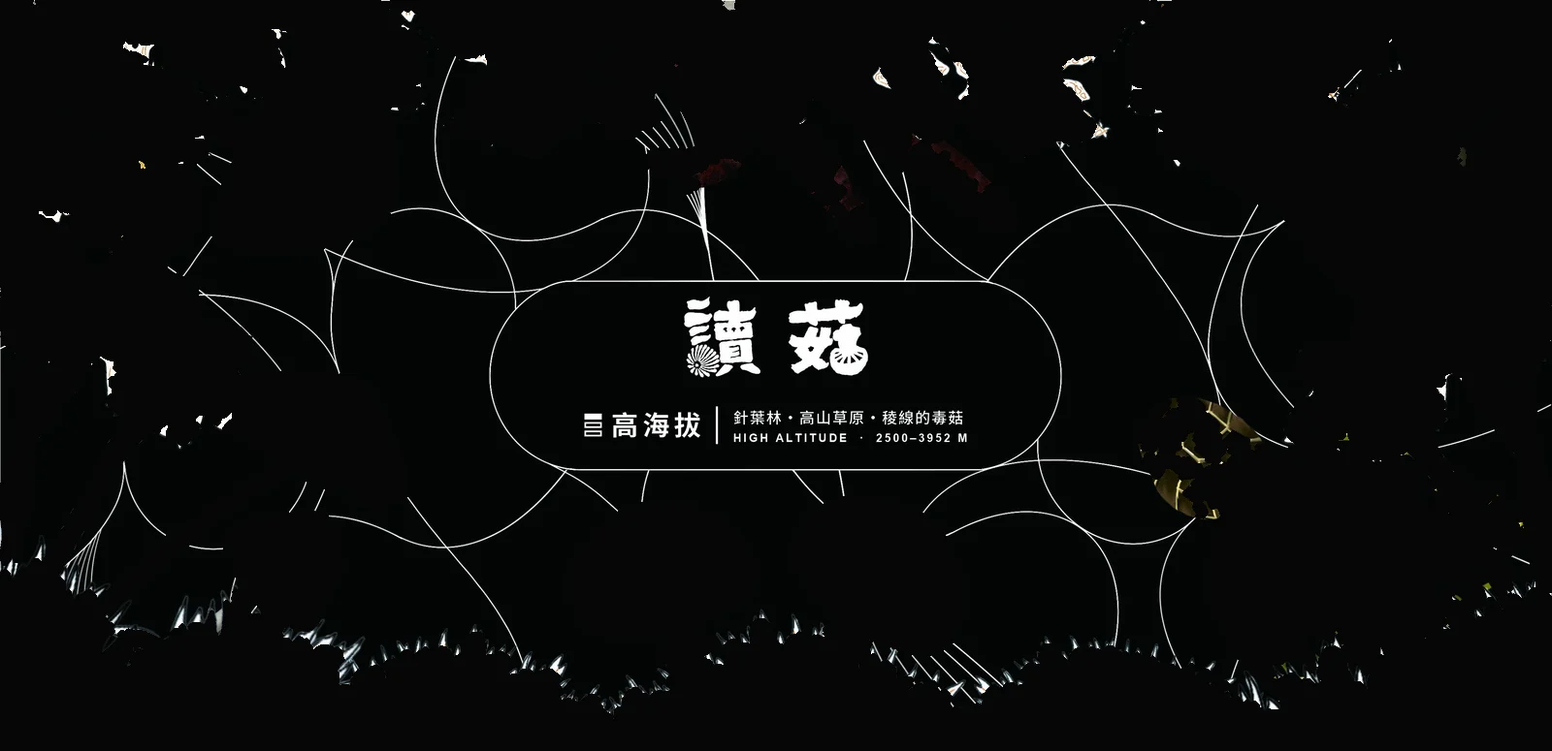
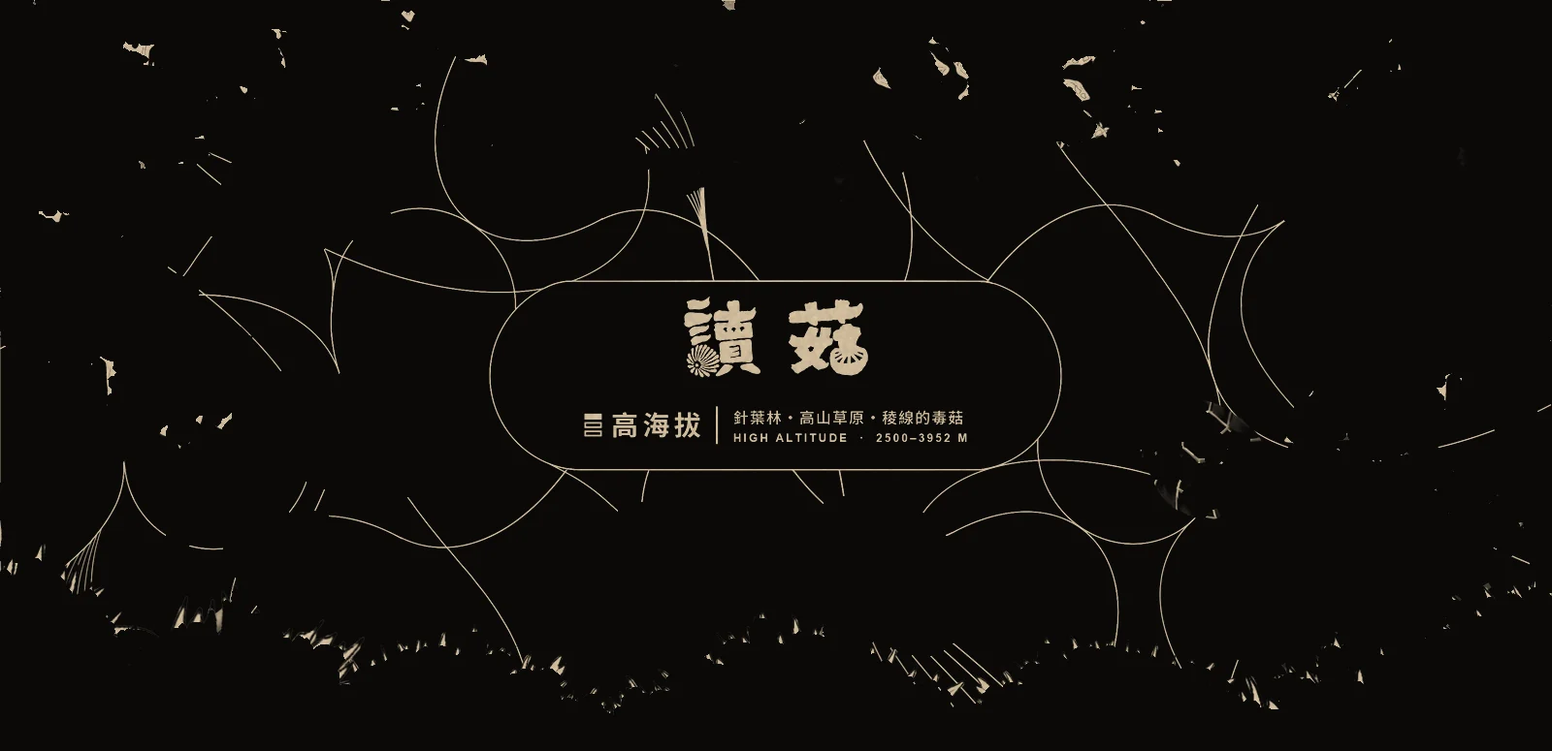
讀菇：三冊改為經摺裝往上拉（上說明頁／下同種菇山行插畫）、正面全部拉開＝捲軸；封面改黑卡紙鐳雕色

diff --git a/dugu-home/js/flipbook.js b/dugu-home/js/flipbook.js
@@ -1,13 +1,19 @@
-/* 讀菇 三冊折頁書模擬（2026-11-26）
-   實體：封面是三層黑卡紙（外框鐳雕樹林草地、中間挖空 → 彩繪毒菇 → 底層紋路＋書名鐳雕）；
-        書是上緣裝訂、「往上拉」的折頁書，一頁翻上去，它的背面和下一頁上下對照。
-   網頁：#shelf 的封面換成三層疊出來的封面（滑鼠視差），點書打開全螢幕翻頁器。
+/* 讀菇 三冊經摺裝（拉頁書）模擬（2026-11-26）
+   實體：封面三層黑卡紙——①外框黑卡、鐳雕樹林草地線條、中間挖空 ②彩繪毒菇 ③底層黑卡、鐳雕紋路＋書名。
+        書是經摺裝的拉頁，往上翻：每翻一折同時看到正反兩面——
+          上面＝翻上去那一折的背面：毒菇說明頁（書本排版）
+          下面＝下一折的正面：同一種菇在《毒菇山行》裡的樹與菇插畫
+        正面整條拉開＝《毒菇山行》捲軸海報（這一冊的海拔段）。
+   網頁：#shelf 封面換成三層疊（滑鼠視差）；點書開全螢幕翻閱器；「正面全部拉開」看整條捲軸。
    依賴 common.js 的 window.UI、home-data.js 的 window.DUGU；接在 home.js 之後載入 */
 (function () {
-  const { $, $$, openLB } = window.UI, D = window.DUGU;
+  const { $, $$ } = window.UI, D = window.DUGU;
   const reduce = matchMedia('(prefers-reduced-motion: reduce)').matches;
   const clamp = (v, a, b) => Math.min(b, Math.max(a, v));
-  const RATIO = 1600 / 775;                      // 封面比例（書頁同大小）
+  const RATIO = 1600 / 775;                      // 封面比例（每一折同大小）
+  const T = D.TYPES;
+  const ARTN = Object.fromEntries(D.ART.map(a => [a.n, a.src]));   // 山行插畫：第 n 層＝書頁 n
+  const SKY = { low: ['#d9d3bd', '#b9b48f'], mid: ['#c9d2c3', '#9fae98'], high: ['#cdd5da', '#a7b3ba'] };
 
   /* ---------- 1. 三層封面 ---------- */
   function cover3(b) {
@@ -15,14 +21,11 @@
       <img class="cv3-l cv3-base" src="img/cover/base-${b.key}.webp" alt="" draggable="false">
       <img class="cv3-l cv3-mush" src="img/cover/mush.webp" alt="" draggable="false">
       <img class="cv3-l cv3-frame" src="img/cover/frame.webp" alt="《${b.title}》封面：${b.sub} ${b.place}" draggable="false">
-      <span class="cv3-tag t3"><b>③</b>底層・黑卡鐳雕紋路＋書名</span>
-      <span class="cv3-tag t2"><b>②</b>中層・彩繪毒菇</span>
-      <span class="cv3-tag t1"><b>①</b>外框・黑卡鐳雕樹林，中間挖空</span>
     </div>`;
   }
   // 滑鼠在封面上：三層各移不同距離，看得出紙張前後
   function parallax(el) {
-    if (reduce || !matchMedia('(pointer: fine)').matches) return;
+    if (!el || reduce || !matchMedia('(pointer: fine)').matches) return;
     el.addEventListener('pointermove', e => { const r = el.getBoundingClientRect();
       el.style.setProperty('--px', ((e.clientX - r.left) / r.width - .5).toFixed(3));
       el.style.setProperty('--py', ((e.clientY - r.top) / r.height - .5).toFixed(3)); });
@@ -32,101 +35,109 @@
     const b = D.BOOKS.find(x => x.key === btn.dataset.book), c = $('.book-cover', btn);
     const tag = $('.bc-band', c);
     c.innerHTML = cover3(b); if (tag) c.append(tag);
-    c.insertAdjacentHTML('beforeend', '<span class="bc-open">往上翻開 ↑</span>');
+    c.insertAdjacentHTML('beforeend', '<span class="bc-open">往上拉開 ↑</span>');
     parallax($('.cv3', c));
   });
 
-  /* ---------- 2. 書頁 ---------- */
-  const T = D.TYPES;
+  /* ---------- 2. 每一折的兩面 ---------- */
   const plain = s => s.replace(/的毒菇$/, '');
-  function pageList(b) {
-    const list = D.M.filter(m => m.band === b.key);
-    const real = list.filter(m => m.plate).sort((a, c) => a.page - c.page);
-    const rest = list.filter(m => !m.plate).sort((a, c) => a.stage - c.stage);
-    return [...real, ...rest];
-  }
-  function pageFace(m, b, n) {
-    if (m.plate) return `<div class="fp plate"><img src="${m.plate}" alt="${m.name} 書頁 P.${m.page}" draggable="false">
-      <button class="fp-zoom" data-lb="${m.plate}" data-cap="《${b.title}》${m.name} ・ P.${m.page}" aria-label="放大這一頁">⤢</button></div>`;
+  const pageList = b => D.M.filter(m => m.band === b.key).sort((a, c) => a.stage - c.stage);   // 由山下往上
+  const pno = m => String(m.stage).padStart(2, '0');
+  // 背面：毒菇說明頁
+  function descFace(m, b) {
+    if (m.plate) return `<div class="fp plate"><img src="${m.plate}" alt="${m.name} 說明頁 P.${m.page}" draggable="false">
+      <button class="fp-zoom" data-lb="${m.plate}" data-cap="《${b.title}》${m.name} ・ 說明頁 P.${m.page}" aria-label="放大說明頁">⤢</button></div>`;
     const t = T[m.type];
     return `<div class="fp gen">
       <div class="gp-l"><h4>${m.name}</h4><i>${m.sci}</i><b style="--c:${t.color}">${t.name}</b>
         <h5>外觀與生長</h5><p>${m.text}</p><h5>分布</h5><p>${b.sub} ${b.range}・${plain(b.place)}</p></div>
       <div class="gp-m"><span class="gp-ring"></span><img src="${m.img}" alt="${m.name}" draggable="false"></div>
-      <div class="gp-r"><header><span>讀菇山行 / The Poisonous Trail</span><em>No.${String(n).padStart(2, '0')}</em></header>
+      <div class="gp-r"><header><span>讀菇山行 / The Poisonous Trail</span><em>${pno(m)}</em></header>
         ${m.gill ? `<figure><img src="${m.gill}" alt="" draggable="false"><figcaption>菌褶</figcaption></figure>` : ''}
         <p class="gp-warn"><b>⚠ ${t.name}中毒</b>${t.text}</p>
         <button class="gp-more" data-mush="${m.id}">看說明卡</button>
-        <small>網頁示意・正式書頁排版中</small></div></div>`;
+        <small>網頁示意・正式說明頁排版中</small></div></div>`;
+  }
+  // 正面：《毒菇山行》插畫（同一種菇那一層）
+  function artFace(m) {
+    const src = ARTN[m.stage], cap = `<span class="af-cap"><em>山行 ${pno(m)}</em>${m.name}</span>`;
+    if (src) return `<div class="fp art"><img src="${src}" alt="《毒菇山行》第 ${m.stage} 層：${m.name}" draggable="false">${cap}
+      <button class="fp-zoom" data-lb="${src}" data-cap="《毒菇山行》第 ${m.stage} 層 ・ ${m.name}" aria-label="放大插畫">⤢</button></div>`;
+    return `<div class="fp art pending"><img class="af-mush" src="${m.img}" alt="${m.name}" draggable="false">${cap}<small class="af-note">這一層的山行插畫繪製中，先放菇的手繪圖</small></div>`;
   }
   const gauge = k => `<span class="fb-gauge">${['high', 'mid', 'low'].map(x => `<i class="${x === k ? 'on' : ''}"></i>`).join('')}</span>`;
-  function introFace(b, pages) {
+  // 最後一折的背面：這一冊收錄的菇
+  function tocFace(b, list) {
     return `<div class="fp ink fintro"><div class="in-l">${gauge(b.key)}<h3>${b.title}</h3><p class="in-en">${b.en}</p>
         <p class="in-sub">${b.sub}　${b.range}</p><p class="in-place">${b.place}</p></div>
-      <ol class="in-toc">${pages.map((m, i) => `<li><span>${m.plate ? 'P.' + m.page : 'No.' + String(i + 1).padStart(2, '0')}</span>${m.name}<em>${T[m.type].name}</em></li>`).join('')}</ol></div>`;
+      <ol class="in-toc">${list.map(m => `<li><span>${pno(m)}</span>${m.name}<em>${T[m.type].name}</em></li>`).join('')}</ol></div>`;
   }
-  const blankFace = () => `<div class="fp ink blank"><img src="../dugu-trail/img/logo-white.png" alt=""></div>`;
   function endFace(b) {
     const i = D.BOOKS.indexOf(b), nx = D.BOOKS[i + 1];
     return `<div class="fp ink end"><img src="../dugu-trail/img/logo-white.png" alt="讀菇">
-      <p>《${b.title}》讀完了。</p>
-      <div class="end-btns">${nx ? `<button class="fb-btn" data-next="${nx.key}">接著讀《${nx.title}》${nx.sub} ↑</button>` : `<button class="fb-btn" data-next="low">回到第一冊《尋野》</button>`}
-        <a class="fb-btn line" href="../dugu-trail/index.html">另外二十頁 → 捲軸海報《毒菇山行》</a></div>
-      <small>三冊上下接起來，就是從平地走到稜線的一整條山路。</small></div>`;
+      <p>《${b.title}》拉到底了。</p>
+      <div class="end-btns">${nx ? `<button class="fb-btn" data-next="${nx.key}">接著往上：《${nx.title}》${nx.sub} ↑</button>` : `<button class="fb-btn" data-next="low">回到山腳《尋野》</button>`}
+        <button class="fb-btn line" data-unfold>把正面全部拉開</button></div>
+      <small>三冊的正面接起來，就是從平地走到稜線的《毒菇山行》捲軸。</small></div>`;
   }
 
-  /* ---------- 3. 翻頁器 ---------- */
+  /* ---------- 3. 翻閱器 ---------- */
   const fb = document.createElement('div');
   fb.className = 'fb'; fb.hidden = true; fb.setAttribute('role', 'dialog'); fb.setAttribute('aria-label', '翻閱圖鑑');
   fb.innerHTML = `<div class="fb-top">
       <nav class="fb-books">${D.BOOKS.map(b => `<button data-book="${b.key}">${gauge(b.key)}<b>${b.title}</b><span>${b.sub}</span></button>`).join('')}</nav>
       <span class="fb-count" id="fbCount"></span>
+      <button class="fb-unf" data-unfold>正面全部拉開</button>
       <button class="fb-x" data-fbclose aria-label="關閉">✕</button></div>
     <div class="fb-stage" id="fbStage">
       <div class="fb-ghost" id="fbGhost"></div>
       <div class="fb-board" id="fbBoard"></div>
       <div class="fb-leaves" id="fbLeaves"></div>
       <div class="fb-hinge"></div>
+      <span class="fb-side up">說明頁<small>背面</small></span><span class="fb-side dn">毒菇山行<small>正面</small></span>
       <ol class="fb-legend" aria-label="封面三層結構">
-        <li style="--y:27%"><b>①</b><span>外框<small>黑卡紙鐳雕樹林與草地，中間挖空</small></span></li>
+        <li style="--y:27%"><b>①</b><span>外框<small>黑卡紙，鐳雕樹林草地線條，中間挖空</small></span></li>
         <li style="--y:51%"><b>②</b><span>中層<small>彩繪毒菇，從洞口露出來</small></span></li>
-        <li style="--y:75%"><b>③</b><span>底層<small>黑卡紙鐳雕紋路＋書名</small></span></li>
+        <li style="--y:75%"><b>③</b><span>底層<small>黑卡紙，鐳雕紋路＋書名</small></span></li>
       </ol>
     </div>
     <div class="fb-bot">
-      <button class="fb-nav" data-go="-1" aria-label="翻回上一頁">▼ 翻回</button>
+      <button class="fb-nav" data-go="-1" aria-label="摺回一折">▼ 摺回</button>
       <div class="fb-dots" id="fbDots"></div>
-      <button class="fb-nav up" data-go="1" aria-label="往上翻下一頁">往上翻 ▲</button>
+      <button class="fb-nav up" data-go="1" aria-label="往上拉開一折">往上拉 ▲</button>
     </div>
-    <p class="fb-tip">拖曳下半頁往上翻・點上半頁翻回・鍵盤 ↑↓ 也可以</p>`;
+    <p class="fb-tip">抓住下半部往上拉・點上半部摺回・鍵盤 ↑↓ 也可以</p>
+    <div class="fb-unfold" id="fbUnfold" hidden></div>`;
   document.body.append(fb);
-  const stage = $('#fbStage', fb), leavesEl = $('#fbLeaves', fb), board = $('#fbBoard', fb), ghost = $('#fbGhost', fb);
-  let book = null, leaves = [], idx = 0, bw = 0, bh = 0;
+  const stage = $('#fbStage', fb), leavesEl = $('#fbLeaves', fb), board = $('#fbBoard', fb), ghost = $('#fbGhost', fb), unf = $('#fbUnfold', fb);
+  let book = null, list = [], leaves = [], idx = 0, bh = 0;
 
   function layout() {
     const W = Math.min(innerWidth - 32, 1180), half = (innerHeight - 190) / 2;
-    bh = Math.max(120, Math.min(W / RATIO, half)); bw = bh * RATIO;
-    stage.style.setProperty('--bw', bw.toFixed(1) + 'px'); stage.style.setProperty('--bh', bh.toFixed(1) + 'px');
+    bh = Math.max(120, Math.min(W / RATIO, half));
+    stage.style.setProperty('--bw', (bh * RATIO).toFixed(1) + 'px'); stage.style.setProperty('--bh', bh.toFixed(1) + 'px');
   }
   function open(key, keepOpen) {
     book = D.BOOKS.find(b => b.key === key) || D.BOOKS[0];
-    const pages = pageList(book);
-    const faces = [{ html: cover3(book), cover: true }, { html: introFace(book, pages) },
-      ...pages.map((m, i) => ({ html: pageFace(m, book, i + 1) }))];
-    if (faces.length % 2) faces.push({ html: blankFace() });   // 湊成雙面
-    leavesEl.innerHTML = '';
-    leaves = [];
-    for (let i = 0; i < faces.length; i += 2) {
-      const lf = document.createElement('div'); lf.className = 'leaf';
-      lf.innerHTML = `<div class="face front">${faces[i].html}<i class="shade"></i></div><div class="face back">${faces[i + 1].html}<i class="shade"></i></div>`;
+    list = pageList(book);
+    fb.style.setProperty('--sky1', SKY[book.key][0]); fb.style.setProperty('--sky2', SKY[book.key][1]);
+    // 第 0 折：正面＝封面、背面＝第 1 種菇的說明頁；第 k 折：正面＝第 k 種的山行插畫、背面＝第 k+1 種的說明頁
+    const L = [{ front: cover3(book), back: descFace(list[0], book) },
+      ...list.map((m, k) => ({ front: artFace(m), back: list[k + 1] ? descFace(list[k + 1], book) : tocFace(book, list) }))];
+    leavesEl.innerHTML = ''; leaves = [];
+    L.forEach((f, i) => {
+      const lf = document.createElement('div'); lf.className = 'leaf' + (i ? '' : ' is-cover');
+      lf.innerHTML = `<div class="face front">${f.front}<i class="shade"></i></div><div class="face back">${f.back}<i class="shade"></i></div>`;
       leavesEl.append(lf); leaves.push({ el: lf, ang: 0 });
-    }
-    board.innerHTML = endFace(book);                     // 封底：全部翻上去後露出來
+    });
+    board.innerHTML = endFace(book);
     ghost.innerHTML = `<div class="gh">${gauge(book.key)}<h3>${book.title}</h3><p>${book.sub}　${book.range}</p><p class="gh-place">${book.place}</p>
-      <button class="fb-btn ghost-x" data-explode>看封面三層結構</button><p class="gh-tip">↓ 抓住封面往上拉，翻開這本書</p></div>`;
+      <button class="fb-btn ghost-x" data-explode>看封面三層結構</button>
+      <p class="gh-tip">↓ 抓住封面往上拉：上面是毒菇說明頁，下面是同一種菇的山行插畫</p></div>`;
     $$('.fb-books button', fb).forEach(x => x.classList.toggle('on', x.dataset.book === book.key));
     $('#fbDots', fb).innerHTML = leaves.map(() => '<i></i>').join('');
     parallax($('.cv3', leavesEl));
+    closeUnfold(true);
     idx = 0; layout(); render(true);
     if (!keepOpen) { fb.hidden = false; document.documentElement.style.overflow = 'hidden'; requestAnimationFrame(() => fb.classList.add('on')); }
   }
@@ -136,40 +147,39 @@
     L.ang = a; L.el.style.transform = `rotateX(${a.toFixed(2)}deg)`;
     L.el.style.setProperty('--a', (a / 180).toFixed(3));
   }
+  const zOf = i => (i < idx ? 10 + i : 500 - i);
   function render(instant) {
     leaves.forEach((L, i) => {
       L.el.classList.toggle('anim', !instant && !reduce);
       setAng(L, i < idx ? 180 : 0);
       if (!L.tm || instant) L.el.style.zIndex = zOf(i);
     });
-    fb.classList.toggle('closed', idx === 0);
-    fb.classList.remove('explode');
     const n = leaves.length;
-    $('#fbCount', fb).textContent = idx === 0 ? `《${book.title}》封面` : idx >= n ? '封底・讀完了' : `已翻 ${idx} / ${n} 張`;
+    fb.classList.toggle('closed', idx === 0); fb.classList.toggle('reading', idx > 0 && idx < n);
+    fb.classList.remove('explode');
+    const m = list[idx - 1];
+    $('#fbCount', fb).innerHTML = idx === 0 ? `《${book.title}》封面` : idx >= n ? '拉到底了' : `<b>${pno(m)}</b> ${m.name}　<span>上：說明頁｜下：山行插畫</span>`;
     $$('#fbDots i', fb).forEach((d, i) => d.classList.toggle('on', i < idx));
     $('[data-go="-1"]', fb).disabled = idx === 0; $('[data-go="1"]', fb).disabled = idx >= n;
   }
-  const zOf = i => (i < idx ? 10 + i : 500 - i);
-  // 正在翻的那張浮在最上面，翻完再回到它該在的層
+  // 正在翻的那一折浮在最上面，翻完再回到它該在的層
   function lift(L) { const i = leaves.indexOf(L); L.el.style.zIndex = 900; clearTimeout(L.tm); L.tm = setTimeout(() => { L.el.style.zIndex = zOf(i); L.tm = 0; }, reduce ? 0 : 950); }
   function go(d) { const n = clamp(idx + d, 0, leaves.length); if (n === idx) return; const L = leaves[d > 0 ? idx : idx - 1]; idx = n; render(); lift(L); }
 
-  /* 拖曳：下半頁往上拉＝翻頁，上半頁往下拉＝翻回 */
+  /* 拖曳：下半部往上拉＝翻開一折，上半部往下拉＝摺回 */
   let drag = null;
   stage.addEventListener('pointerdown', e => {
     if (e.target.closest('button, a') || fb.classList.contains('explode')) return;
-    const r = leavesEl.getBoundingClientRect(), hingeY = r.top, lower = e.clientY > hingeY;
-    let i = lower ? idx : idx - 1;
+    const lower = e.clientY > leavesEl.getBoundingClientRect().top, i = lower ? idx : idx - 1;
     if (i < 0 || i >= leaves.length) return;
-    drag = { i, fwd: lower, y: e.clientY, t: performance.now(), moved: 0, base: lower ? 0 : 180 };
+    drag = { i, fwd: lower, y: e.clientY, t: performance.now(), moved: 0 };
     leaves[i].el.classList.remove('anim'); leaves[i].el.style.zIndex = 900;
     stage.setPointerCapture(e.pointerId);
   });
   stage.addEventListener('pointermove', e => {
     if (!drag) return;
     const dy = drag.y - e.clientY; drag.moved = Math.max(drag.moved, Math.abs(dy));
-    const a = drag.fwd ? clamp(dy / (bh * 1.15) * 180, 0, 180) : clamp(180 + dy / (bh * 1.15) * 180, 0, 180);
-    setAng(leaves[drag.i], a);
+    setAng(leaves[drag.i], drag.fwd ? clamp(dy / (bh * 1.15) * 180, 0, 180) : clamp(180 + dy / (bh * 1.15) * 180, 0, 180));
   });
   const endDrag = e => {
     if (!drag) return; const d = drag; drag = null;
@@ -181,26 +191,46 @@
     render(); lift(L);
   };
   stage.addEventListener('pointerup', endDrag); stage.addEventListener('pointercancel', endDrag);
-
   let wheelLock = 0;
   stage.addEventListener('wheel', e => { e.preventDefault(); const now = performance.now(); if (now < wheelLock || Math.abs(e.deltaY) < 8) return; wheelLock = now + 700; go(e.deltaY > 0 ? 1 : -1); }, { passive: false });
+
+  /* ---------- 4. 正面全部拉開＝捲軸 ---------- */
+  function openUnfold() {
+    // 由上到下：高的層在上、山腳在下；折痕一凸一凹
+    // 同一層有兩種菇（如第 3 層）只放一折，名稱合在一起
+    const byStage = [];
+    list.forEach(m => { const g = byStage.find(x => x.stage === m.stage); g ? g.names.push(m.name) : byStage.push({ stage: m.stage, m, names: [m.name] }); });
+    const rows = byStage.reverse().map((g, i, a) => `<div class="uf-p ${i % 2 ? 'valley' : 'mountain'}" style="--i:${a.length - 1 - i}">${artFace({ ...g.m, name: g.names.join('・') })}</div>`).join('');
+    unf.innerHTML = `<div class="uf-head"><b>《${book.title}》正面全部拉開</b><span>${book.sub} ${book.range}・由山腳（下）往上</span>
+        <a class="fb-btn line" href="../dugu-trail/index.html#s=${list[0].stage}">三冊接起來：完整《毒菇山行》捲軸 →</a>
+        <button class="fb-btn" data-unfold>摺回去</button></div>
+      <div class="uf-strip" id="ufStrip"><div class="uf-col">${rows}</div></div>`;
+    unf.hidden = false; fb.classList.add('unfolded');
+    const s = $('#ufStrip', unf); s.scrollTop = s.scrollHeight;
+    requestAnimationFrame(() => requestAnimationFrame(() => unf.classList.add('on')));
+  }
+  function closeUnfold(now) { unf.classList.remove('on'); fb.classList.remove('unfolded'); if (now) unf.hidden = true; else setTimeout(() => { if (!unf.classList.contains('on')) unf.hidden = true; }, 500); }
+
   fb.addEventListener('click', e => {
     const t = e.target;
     if (t.closest('[data-fbclose]')) return close();
+    if (t.closest('[data-unfold]')) return unf.hidden || !unf.classList.contains('on') ? openUnfold() : closeUnfold();
     const g = t.closest('[data-go]'); if (g) return go(+g.dataset.go);
     const bk = t.closest('.fb-books button'); if (bk) return open(bk.dataset.book, true);
     const nx = t.closest('[data-next]'); if (nx) return open(nx.dataset.next, true);
-    if (t.closest('[data-explode]')) { fb.classList.toggle('explode'); t.closest('[data-explode]').textContent = fb.classList.contains('explode') ? '把三層疊回去' : '看封面三層結構'; }
+    const ex = t.closest('[data-explode]');
+    if (ex) { fb.classList.toggle('explode'); ex.textContent = fb.classList.contains('explode') ? '把三層疊回去' : '看封面三層結構'; }
   });
   addEventListener('keydown', e => {
-    if (fb.hidden || !$('.lb').hidden || !$('#modal, .modal').hidden) return;
-    if (e.key === 'Escape') close();
-    else if (['ArrowDown', 'ArrowRight', 'PageDown', ' '].includes(e.key)) { e.preventDefault(); go(1); }
+    if (fb.hidden || !$('.lb').hidden || !$('.modal').hidden) return;
+    if (e.key === 'Escape') { if (!unf.hidden) closeUnfold(); else close(); return; }
+    if (!unf.hidden) return;
+    if (['ArrowDown', 'ArrowRight', 'PageDown', ' '].includes(e.key)) { e.preventDefault(); go(1); }
     else if (['ArrowUp', 'ArrowLeft', 'PageUp'].includes(e.key)) { e.preventDefault(); go(-1); }
   });
   addEventListener('resize', () => { if (!fb.hidden) layout(); });
 
-  // 書架：點書＝翻開
+  // 書架：點書＝拉開
   $('#shelf').addEventListener('click', e => { const b = e.target.closest('.book'); if (b) open(b.dataset.book); });
   window.FB = { open, cover3 };
 })();

diff --git a/dugu-home/css/flipbook.css b/dugu-home/css/flipbook.css
@@ -169,3 +169,67 @@
 .fb-legend span { font-family: var(--serif); font-weight: 900; font-size: 18px; letter-spacing: .16em; }
 .fb-legend small { display: block; font-family: var(--sans); font-weight: 400; font-size: 12.5px; letter-spacing: .06em; opacity: .7; margin-top: 2px; }
 @media (max-width: 1100px) { .fb-legend { right: auto; left: 0; width: 100%; } .fb-legend li { right: auto; left: 0; flex-direction: row; text-align: left; top: calc(var(--y) - 14%); } .fb-legend li::before { display: none; } .fb-legend span { font-size: 14px; } }
+
+/* ---------- v6 經摺裝：上＝說明頁（背面）、下＝同一種菇的山行插畫（正面） ---------- */
+.fp.art { background: linear-gradient(180deg, var(--sky1, #d9d3bd) 0%, var(--sky2, #b9b48f) 100%); overflow: hidden; }
+.fp.art::before { content: ''; position: absolute; inset: 0; background: radial-gradient(120% 60% at 50% 0%, rgba(255, 255, 255, .45), transparent 70%); }
+.fp.art > img { position: absolute; inset: 0; width: 100%; height: 100%; object-fit: cover; object-position: 50% 100%; }
+.af-cap { position: absolute; left: 2cqw; bottom: 3cqh; z-index: 3; display: flex; align-items: baseline; gap: 1cqw; padding: .7cqw 1.6cqw .7cqw 1cqw; border-radius: 99px;
+  background: rgba(13, 11, 10, .82); color: #f4ecdc; font-family: var(--serif); font-weight: 900; font-size: max(13px, 1.8cqw); letter-spacing: .1em; }
+.af-cap em { font-style: normal; font-family: var(--mono); font-weight: 400; font-size: max(10px, 1.05cqw); letter-spacing: .14em; color: #e39a3b; }
+.fp.art.pending { display: grid; place-items: center; }
+.af-mush { position: relative; height: 72cqh; object-fit: contain; filter: drop-shadow(0 1.4cqw 1.6cqw rgba(0, 0, 0, .35)); }
+.af-note { position: absolute; right: 2cqw; bottom: 3cqh; font-size: max(11px, 1.1cqw); color: #2a221b; opacity: .7; letter-spacing: .08em; }
+/* 摺痕：每一折上緣一條淡淡的凹線 */
+.face.front::after, .face.back::after { content: ''; position: absolute; left: 0; right: 0; height: 1.4cqh; z-index: 5; pointer-events: none; }
+.face.front::after { top: 0; background: linear-gradient(rgba(0, 0, 0, .35), transparent); }
+.face.back::after { bottom: 0; background: linear-gradient(transparent, rgba(0, 0, 0, .35)); }
+/* 書口：還沒拉開的折，在下方露出疊起來的紙邊 */
+.fb-board::after { content: ''; position: absolute; left: 0; right: 0; bottom: 0; height: 6px; background: repeating-linear-gradient(#2a2520 0 1px, #0d0b0a 1px 2px); opacity: .7; }
+
+/* 左右的「上／下」標示 */
+.fb-side { position: absolute; left: calc(100% + 14px); display: flex; flex-direction: column; gap: 2px; font-family: var(--serif); font-weight: 900; font-size: 17px; letter-spacing: .18em;
+  color: #efe6d4; opacity: 0; transition: opacity .5s; pointer-events: none; writing-mode: vertical-rl; }
+.fb-side small { font-family: var(--sans); font-weight: 400; font-size: 11px; letter-spacing: .2em; opacity: .55; }
+.fb-side.up { top: calc(var(--bh) * .5); transform: translateY(-50%); }
+.fb-side.dn { top: calc(var(--bh) * 1.5); transform: translateY(-50%); color: #e39a3b; }
+.fb.reading .fb-side { opacity: .9; }
+.fb-count b { font-size: 15px; color: #e39a3b; margin-right: 4px; }
+.fb-count span { opacity: .6; margin-left: 6px; }
+.fb-unf { padding: 8px 16px; border-radius: 99px; border: 1px solid #e39a3b; background: none; color: #e39a3b; font-weight: 700; font-size: 13px; letter-spacing: .1em; cursor: pointer; }
+.fb-unf:hover { background: #e39a3b; color: #14110d; }
+.fb.explode .fb-side { opacity: 0; }
+
+/* ---------- 正面全部拉開＝捲軸 ---------- */
+.fb-unfold { position: absolute; inset: 0; z-index: 990; display: grid; grid-template-rows: auto 1fr; justify-items: center; padding: 14px 16px 0;
+  background: radial-gradient(120% 90% at 50% 55%, #2a221b 0%, #120e0b 60%, #0a0807 100%); opacity: 0; transition: opacity .45s; }
+.fb-unfold[hidden] { display: none; }
+.fb-unfold.on { opacity: 1; }
+.uf-head { width: min(1180px, 100%); display: flex; align-items: center; gap: 14px; flex-wrap: wrap; padding-bottom: 12px; }
+.uf-head > b { font-family: var(--serif); font-size: 20px; letter-spacing: .14em; }
+.uf-head > span { font-size: 12.5px; letter-spacing: .12em; opacity: .65; margin-right: auto; }
+.uf-head .fb-btn { font-size: 13px; padding: 8px 16px; }
+.uf-strip { width: min(980px, 100%); overflow-y: auto; overscroll-behavior: contain; perspective: 1600px; padding: 10px 0 40px; scrollbar-width: thin; }
+.uf-col { display: flex; flex-direction: column; box-shadow: 0 30px 70px rgba(0, 0, 0, .55); }
+.uf-p { position: relative; aspect-ratio: 1600 / 775; container-type: size; transform-origin: 50% 100%; transition: transform .9s cubic-bezier(.3, .7, .2, 1), filter .9s; transition-delay: calc(var(--i) * 90ms); }
+.uf-p .fp { border-radius: 0; }
+.uf-p .af-cap { left: auto; right: 2cqw; }
+/* 一凸一凹的摺痕 */
+.uf-p.mountain::after, .uf-p.valley::after { content: ''; position: absolute; left: 0; right: 0; bottom: 0; height: 5%; z-index: 4; pointer-events: none; }
+.uf-p.mountain::after { background: linear-gradient(transparent, rgba(0, 0, 0, .28)); }
+.uf-p.valley::after { background: linear-gradient(transparent, rgba(255, 255, 255, .18)); }
+/* 還沒拉開：每折往後摺 */
+.fb-unfold:not(.on) .uf-p.mountain { transform: rotateX(-70deg); filter: brightness(.6); }
+.fb-unfold:not(.on) .uf-p.valley { transform: rotateX(70deg); filter: brightness(.8); }
+@media (max-width: 700px) { .fb-side { display: none; } .uf-head > b { font-size: 17px; } .fb-unf { padding: 6px 12px; font-size: 12px; } }
+@media (prefers-reduced-motion: reduce) { .uf-p { transition: none; } }
+/* 拉開時用插畫原比例，上下接得起來 */
+.uf-p { aspect-ratio: auto; container-type: inline-size; }
+.uf-p .fp.art { position: relative; inset: auto; }
+.uf-p .fp.art > img { position: relative; height: auto; display: block; }
+.uf-p .fp.art.pending { aspect-ratio: 2.4; }
+.uf-p .af-cap { bottom: 2cqw; }
+.uf-p .fp.art.pending .af-mush { height: 30cqw; }
+.fp.art > img.af-mush { position: relative; inset: auto; width: auto; height: 72cqh; object-fit: contain; }
+.uf-p .fp.art > img.af-mush { height: 30cqw; }
+.af-note { top: 3cqh; bottom: auto; } .uf-p .af-note { top: 2cqw; }

diff --git a/dugu-home/index.html b/dugu-home/index.html
@@ -10,7 +10,7 @@
 <link href="https://fonts.googleapis.com/css2?family=Noto+Sans+TC:wght@400;500;700;900&family=Noto+Serif+TC:wght@600;900&family=IBM+Plex+Mono:wght@400;500&family=Cormorant+Garamond:ital,wght@1,500;1,600&display=swap" rel="stylesheet">
 <link rel="stylesheet" href="css/home.css?v=7">
 <link rel="stylesheet" href="css/motion.css?v=1">
-<link rel="stylesheet" href="css/flipbook.css?v=5">
+<link rel="stylesheet" href="css/flipbook.css?v=7">
 <link rel="icon" href="../dugu-trail/img/logo-ink.png">
 </head>
 <body data-page="home">
@@ -160,7 +160,7 @@
   <div class="wrap">
     <p class="kicker rv"><b>04</b> Main Product ・ Field Guides</p>
     <h2 class="h2 rv">《尋野・林間・登峰》<br>依海拔分成三冊</h2>
-    <p class="lead rv">上緣裝訂、往上拉開的折頁書：翻上去的那一頁，和下一頁上下對照。封面是三層黑卡紙——外框鐳雕樹林、中層彩繪毒菇、底層鐳雕紋路與書名。點一本書，像實體一樣往上翻開。</p>
+    <p class="lead rv">往上拉開的經摺裝拉頁書：每拉一折，上面是毒菇說明頁，下面剛好是同一種菇在《毒菇山行》裡的插畫，上下對照。正面整條拉開，就是《毒菇山行》捲軸海報。封面是三層黑卡紙——外框鐳雕樹林、中層彩繪毒菇、底層鐳雕紋路與書名。</p>
     <div class="shelf" id="shelf"></div>
     <div class="pages" id="pages"></div>
   </div>
@@ -199,6 +199,6 @@
 <script src="js/common.js?v=2"></script>
 <script src="js/home.js?v=7"></script>
 <script src="js/motion.js?v=1"></script>
-<script src="js/flipbook.js?v=4"></script>
+<script src="js/flipbook.js?v=6"></script>
 </body>
 </html>
